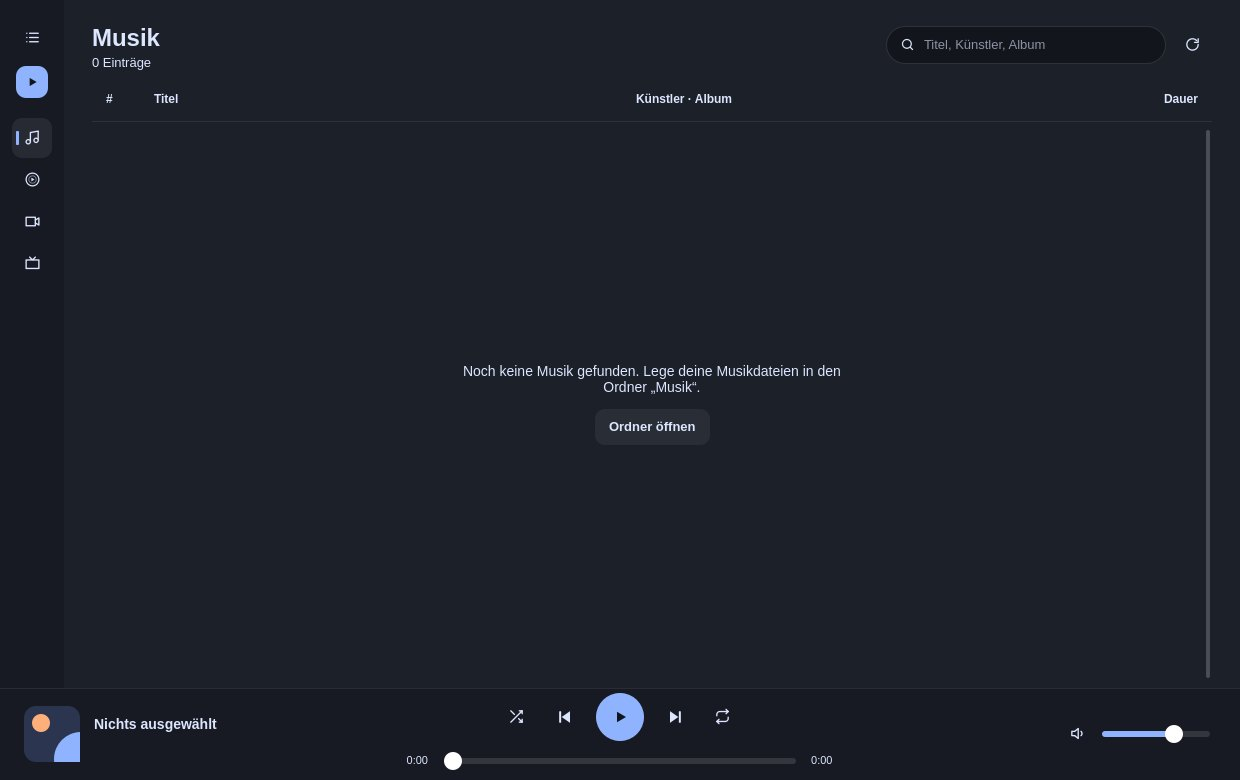
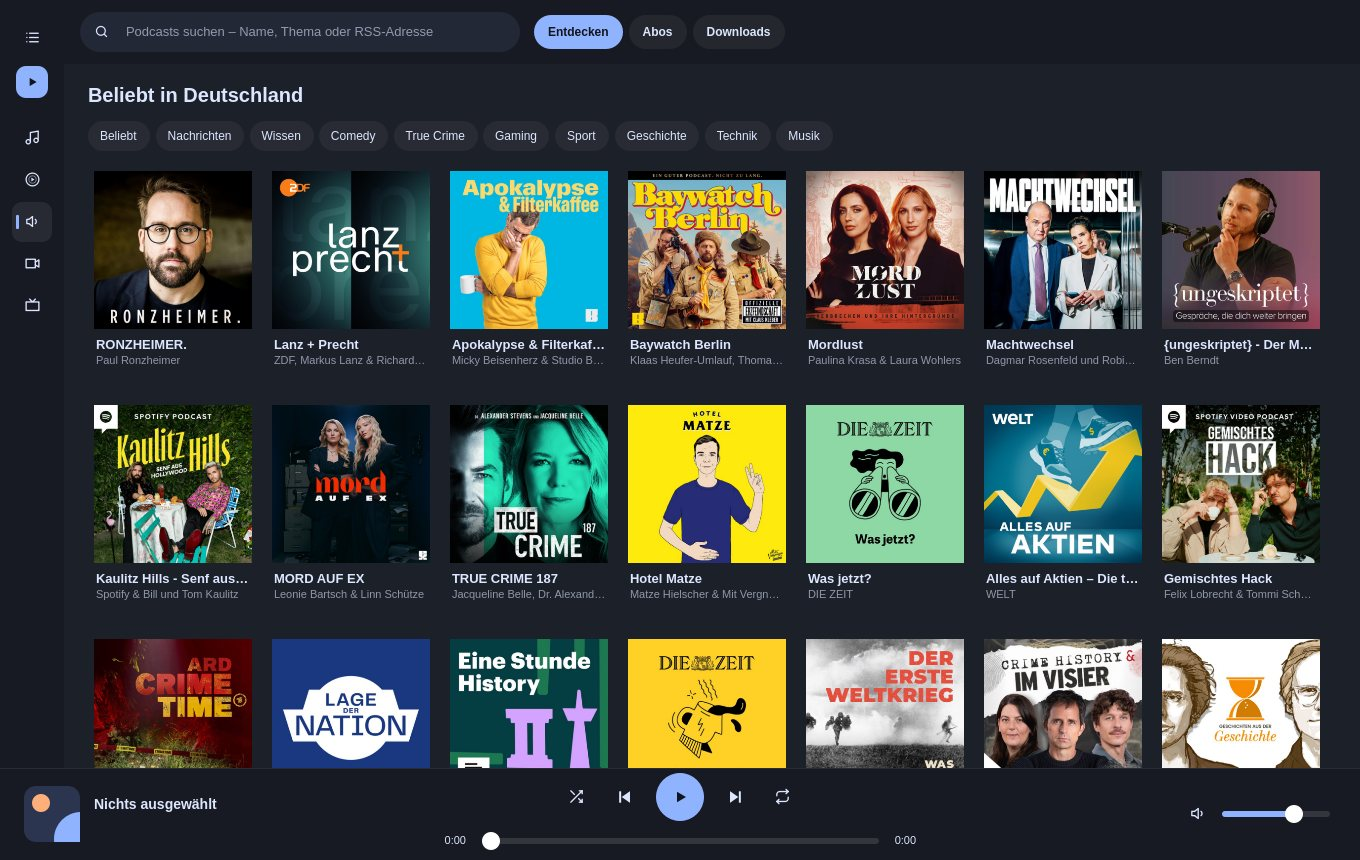
Webseite: Gibeon OS 3 „Emerald Earth“, Studio statt OBS, Shots mit Videoaufnahme, Podcasts im Player, neuer Hintergrund
Claude-Session: https://claude.ai/code/session_013GT3BRDo3e7DU5WTsmjQEC

diff --git a/index.html b/index.html
@@ -16,7 +16,7 @@
   --text:#dce6ff; --muted:rgba(220,230,255,.62); --faint:rgba(220,230,255,.4);
   --accent:#8fb3ff; --accent-text:#12151b; --flame:#ffb07a; --ok:#6fdcc0; --red:#c42b1c;
   --line:rgba(255,255,255,.08); --hover:rgba(255,255,255,.07); --subtle:rgba(255,255,255,.04);
[1 lines of base64/hex data omitted]
+  --wall:url("bilder/wall-graphit.jpg");
 }
 *{box-sizing:border-box}
 html{scroll-behavior:smooth}
@@ -451,7 +451,7 @@ html[data-design="porzellan"]{
   --text:#1c2433; --muted:rgba(28,36,51,.66); --faint:rgba(28,36,51,.45);
   --accent:#3d6fe0; --accent-text:#ffffff; --flame:#d9773a; --ok:#1f9e7f; --red:#d23c45;
   --line:rgba(28,36,51,.10); --hover:rgba(28,36,51,.06); --subtle:rgba(28,36,51,.03);
[1 lines of base64/hex data omitted]
+  --wall:url("bilder/wall-porzellan.jpg");
   color-scheme:light;
 }
 html[data-design="porzellan"] header.nav{background:rgba(244,246,250,.82)}
@@ -609,7 +609,7 @@ html,body,header.nav,.card,.tab,.btn{transition:background-color .25s,color .25s
 <!-- ============ HERO ============ -->
 <section class="hero">
   <div class="wrap">
-    <span class="eyebrow"><b>Version 2 · Vivid Venus</b> Neu: Android-Apps, Messenger und ein eigener App-Shop</span>
+    <span class="eyebrow"><b>Version 3 · Emerald Earth</b> Neu: Studio zum Streamen, Videoaufnahme und ein neues Design</span>
     <h1>Bedient sich wie Windows.<br><em>Läuft ohne Windows.</em></h1>
     <p class="lead">Gibeon OS ist ein kostenloses Betriebssystem auf Basis von Fedora. Steam, Proton und der NVIDIA-Treiber sind schon drauf. Und wenn ein Update Ärger macht, startest du einfach den vorherigen Stand.</p>
     <div class="cta">
@@ -669,8 +669,10 @@ html,body,header.nav,.card,.tab,.btn{transition:background-color .25s,color .25s
             <div class="sm-app"><span class="ic"><svg class="i"><use href="#film"/></svg></span>Cut</div>
             <div class="sm-letter">D</div>
             <div class="sm-app"><span class="ic"><svg class="i"><use href="#folder"/></svg></span>Dateien</div>
-            <div class="sm-letter">G</div>
-            <div class="sm-app hl"><span class="ic"><svg class="i"><use href="#rocket"/></svg></span>Gibeon OS Suite</div>
+            <div class="sm-letter">M</div>
+            <div class="sm-app"><span class="ic"><svg class="i"><use href="#mail"/></svg></span>Mail</div>
+            <div class="sm-letter">S</div>
+            <div class="sm-app hl"><span class="ic"><svg class="i"><use href="#rec"/></svg></span>Studio</div>
           </div>
           <div class="sm-foot"><span class="avatar">M</span>Markus<div class="p"><svg class="i"><use href="#lock"/></svg><svg class="i"><use href="#power"/></svg></div></div>
         </div>
@@ -683,7 +685,6 @@ html,body,header.nav,.card,.tab,.btn{transition:background-color .25s,color .25s
           <div class="tb-btn"><svg class="i"><use href="#term"/></svg></div>
           <div class="tb-sep"></div>
           <div class="tb-btn"><span class="tb-ai">Cl</span></div>
-          <div class="tb-btn"><span class="tb-ai">GP</span></div>
           <div class="tray">
             <svg class="i"><use href="#mic"/></svg>
             <svg class="i"><use href="#sun"/></svg>
@@ -717,7 +718,7 @@ html,body,header.nav,.card,.tab,.btn{transition:background-color .25s,color .25s
     <div class="grid">
       <div class="card"><div class="badge f"><svg class="i"><use href="#gamepad"/></svg></div><h3>Spiele laufen sofort</h3><p>Steam, Proton und GameMode sind vorinstalliert, in der NVIDIA-Ausgabe auch der Treiber. Bei Steam anmelden, Spiel installieren, losspielen.</p></div>
       <div class="card"><div class="badge g"><svg class="i"><use href="#undo"/></svg></div><h3>Updates lassen sich zurücknehmen</h3><p>Ein Update wird komplett eingespielt oder gar nicht. Läuft danach etwas nicht, wählst du beim Start den vorherigen Stand.</p></div>
-      <div class="card"><div class="badge"><svg class="i"><use href="#wave"/></svg></div><h3>KI auf dem eigenen PC</h3><p>Der KI-Helfer läuft auf deiner Grafikkarte, nicht in der Cloud. Claude und ChatGPT gibt es zusätzlich als Fenster in der Taskleiste.</p></div>
+      <div class="card"><div class="badge"><svg class="i"><use href="#wave"/></svg></div><h3>KI auf dem eigenen PC</h3><p>Der KI-Helfer läuft auf deiner Grafikkarte, nicht in der Cloud. Claude gibt es zusätzlich als Fenster in der Taskleiste.</p></div>
       <div class="card"><div class="badge f"><svg class="i"><use href="#cube"/></svg></div><h3>Aus einem Foto wird 3D</h3><p>3D Studio rechnet aus einem einzigen Bild eine Figur, die du drucken oder animieren kannst. Dafür brauchst du eine NVIDIA-Karte mit 12 GB.</p></div>
       <div class="card"><div class="badge g"><svg class="i"><use href="#server"/></svg></div><h3>Eigene Webseite per Schalter</h3><p>„Mein Server“ macht deinen PC zum Webserver fürs Heimnetz. Wer will, macht ihn auch übers Internet erreichbar.</p></div>
       <div class="card"><div class="badge"><svg class="i"><use href="#pad"/></svg></div><h3>Android-Apps</h3><p>Apps vom Handy laufen in eigenen Fenstern auf dem PC, mit oder ohne Google Play Store.</p></div>
@@ -736,13 +737,12 @@ html,body,header.nav,.card,.tab,.btn{transition:background-color .25s,color .25s
     <div class="tabgroups" role="tablist">
       <div class="tabgroup"><span class="glabel">Kreativ</span>
         <button class="tab" role="tab" aria-selected="true" data-t="3d"><svg class="i"><use href="#cube"/></svg>3D Studio</button>
-        <button class="tab" role="tab" aria-selected="false" data-t="engine"><svg class="i"><use href="#gamepad"/></svg>Engine</button>
         <button class="tab" role="tab" aria-selected="false" data-t="launcher"><svg class="i"><use href="#tv"/></svg>Game Launcher</button>
         <button class="tab" role="tab" aria-selected="false" data-t="art"><svg class="i"><use href="#brush"/></svg>Art</button>
         <button class="tab" role="tab" aria-selected="false" data-t="cut"><svg class="i"><use href="#film"/></svg>Cut</button>
         <button class="tab" role="tab" aria-selected="false" data-t="shots"><svg class="i"><use href="#scissors"/></svg>Shots</button>
         <button class="tab" role="tab" aria-selected="false" data-t="broadcast"><svg class="i"><use href="#broadcast"/></svg>Broadcast</button>
-        <button class="tab" role="tab" aria-selected="false" data-t="podcast"><svg class="i"><use href="#podcast"/></svg>Podcast</button>
+        <button class="tab" role="tab" aria-selected="false" data-t="studio"><svg class="i"><use href="#rec"/></svg>Studio</button>
       </div>
       <div class="tabgroup"><span class="glabel">Büro &amp; Internet</span>
         <button class="tab" role="tab" aria-selected="false" data-t="mail"><svg class="i"><use href="#mail"/></svg>Mail</button>
@@ -800,22 +800,6 @@ html,body,header.nav,.card,.tab,.btn{transition:background-color .25s,color .25s
         </div>
       </div>
     </div>
-    <div class="panel" data-p="engine">
-      <div class="appshow">
-        <figure class="shot"><img src="bilder/engine-charakter.jpg" data-hell="bilder/hell-engine-charakter.jpg" alt="Bildschirmfoto der Engine mit Charakter-Editor" loading="lazy"></figure>
-        <div class="desc">
-          <span class="gtag">Kreativ</span>
-          <h3>Engine</h3>
-          <p>Ein Baukasten für 2,5D-Jump’n’Runs, ganz ohne Programmieren.</p>
-          <ul>
-            <li><svg class="i"><use href="#check"/></svg>Level aus Blöcken, Münzen, Gegnern und Figuren mit Dialogen zusammenklicken.</li>
-            <li><svg class="i"><use href="#check"/></svg>Eigene 3D-Figur laden und per Text beschreiben, wie sie laufen soll.</li>
-            <li><svg class="i"><use href="#check"/></svg>Das fertige Spiel für Linux und Windows exportieren.</li>
-          </ul>
-          <div class="know"><b>Gut zu wissen:</b> Nicht vorinstalliert. Du holst sie dir über Software → „Eigene Apps“.</div>
-        </div>
-      </div>
-    </div>
     <div class="panel" data-p="art">
       <div class="appshow">
         <figure class="shot"><img src="bilder/art.jpg" data-hell="bilder/hell-art.jpg" alt="Bildschirmfoto von Art" loading="lazy"></figure>
@@ -853,11 +837,12 @@ html,body,header.nav,.card,.tab,.btn{transition:background-color .25s,color .25s
         <div class="desc">
           <span class="gtag">Kreativ</span>
           <h3>Shots</h3>
-          <p>Bildschirmfotos wie mit dem Snipping Tool: Druck-Taste oder Win + Umschalt + S.</p>
+          <p>Bildschirmfotos wie mit dem Snipping Tool: Druck-Taste oder Win + Umschalt + S. Und jetzt auch Videos vom Desktop.</p>
           <ul>
             <li><svg class="i"><use href="#check"/></svg>Bereich, Fenster, ganzer Bildschirm oder freihand.</li>
             <li><svg class="i"><use href="#check"/></svg>Pfeile, Markierungen und Text direkt einzeichnen.</li>
             <li><svg class="i"><use href="#check"/></svg>Mit Selbstauslöser, falls ein Menü mit aufs Bild soll.</li>
+            <li><svg class="i"><use href="#check"/></svg>„Aufnehmen“ filmt den Bildschirm samt Ton, „Stopp“ speichert das Video.</li>
           </ul>
         </div>
       </div>
@@ -868,7 +853,7 @@ html,body,header.nav,.card,.tab,.btn{transition:background-color .25s,color .25s
         <div class="desc">
           <span class="gtag">Kreativ</span>
           <h3>Broadcast</h3>
-          <p>Filtert Geräusche aus dem Mikrofon und tauscht den Hintergrund der Webcam aus. Das klappt in Discord, Teams, OBS und jedem anderen Programm.</p>
+          <p>Filtert Geräusche aus dem Mikrofon und tauscht den Hintergrund der Webcam aus. Das klappt in Discord, Teams, Studio und jedem anderen Programm.</p>
           <ul>
             <li><svg class="i"><use href="#check"/></svg>Tastatur und Lüfter hört keiner mehr.</li>
             <li><svg class="i"><use href="#check"/></svg>Hintergrund unscharf, eigenes Bild oder Greenscreen.</li>
@@ -878,17 +863,21 @@ html,body,header.nav,.card,.tab,.btn{transition:background-color .25s,color .25s
         </div>
       </div>
     </div>
-    <div class="panel" data-p="podcast">
+    <div class="panel" data-p="studio">
       <div class="appshow">
-        <figure class="shot"><img src="bilder/podcast.jpg" alt="Bildschirmfoto von Podcast" loading="lazy"></figure>
+        <figure class="shot"><img src="bilder/studio.jpg" data-hell="bilder/hell-studio.jpg" alt="Bildschirmfoto von Studio mit Vorschau, Quellen, Chat und Tonmischer" loading="lazy"><figcaption>Mit Testbild statt Kamera</figcaption></figure>
         <div class="desc">
           <span class="gtag">Kreativ</span>
-          <h3>Podcast</h3>
-          <p>Podcasts suchen, abonnieren und herunterladen. Ein Konto brauchst du nicht.</p>
+          <h3>Studio</h3>
+          <p>Aufnehmen und live streamen, gebaut für Gibeon OS. Ersetzt OBS und ist deutlich einfacher.</p>
           <ul>
-            <li><svg class="i"><use href="#check"/></svg>Durchsucht einen großen öffentlichen Katalog, eigene RSS-Links gehen auch.</li>
-            <li><svg class="i"><use href="#check"/></svg>Folgen offline hören, auch schneller oder langsamer.</li>
+            <li><svg class="i"><use href="#check"/></svg>Bildschirm, Kamera, Capture-Karte, Bilder und Browserquellen frei anordnen.</li>
+            <li><svg class="i"><use href="#check"/></svg>Szenen merken sich alles, auch die Capture-Karte und den Ton.</li>
+            <li><svg class="i"><use href="#check"/></svg>Gleichzeitig zu Twitch, YouTube, Kick, TikTok oder einem eigenen Server.</li>
+            <li><svg class="i"><use href="#check"/></svg>Chat und Umfragen direkt in der App, die Umfrage erscheint im Bild.</li>
+            <li><svg class="i"><use href="#check"/></svg>Kodiert auf der Grafikkarte, Aufnahmen auf Wunsch danach in 4K.</li>
           </ul>
+          <div class="know"><b>Gut zu wissen:</b> Ein Elgato Stream Deck lässt sich einstecken und für Studio belegen.</div>
         </div>
       </div>
     </div>
@@ -997,14 +986,15 @@ html,body,header.nav,.card,.tab,.btn{transition:background-color .25s,color .25s
     </div>
     <div class="panel" data-p="player">
       <div class="appshow">
-        <figure class="shot"><img src="bilder/player.jpg" alt="Bildschirmfoto von Player" loading="lazy"></figure>
+        <figure class="shot"><img src="bilder/player.jpg" alt="Bildschirmfoto vom Player mit Podcast-Kacheln" loading="lazy"></figure>
         <div class="desc">
           <span class="gtag">Medien</span>
           <h3>Player</h3>
-          <p>Musik, Videos und Fernsehen in einer App.</p>
+          <p>Musik, Videos, Podcasts und Fernsehen in einer App.</p>
           <ul>
             <li><svg class="i"><use href="#check"/></svg>Spielt deine Musik und Videos aus den eigenen Ordnern.</li>
-            <li><svg class="i"><use href="#check"/></svg>YouTube Music über die offizielle Webseite, mit deinem Konto.</li>
+            <li><svg class="i"><use href="#check"/></svg>YouTube Music mit eigenen Kacheln, Suche und Favoriten – über die offizielle Seite, mit deinem Konto.</li>
+            <li><svg class="i"><use href="#check"/></svg>Podcasts als Kacheln: suchen, abonnieren und offline hören.</li>
             <li><svg class="i"><use href="#check"/></svg>Fernsehen per IPTV mit deutscher Senderliste.</li>
           </ul>
         </div>
@@ -1201,7 +1191,6 @@ html,body,header.nav,.card,.tab,.btn{transition:background-color .25s,color .25s
           <div class="tb-btn"><svg class="i"><use href="#term"/></svg></div>
           <div class="tb-sep"></div>
           <div class="tb-btn"><span class="tb-ai">Cl</span></div>
-          <div class="tb-btn"><span class="tb-ai">GP</span></div>
           <div class="tray"><svg class="i"><use href="#mic"/></svg><svg class="i"><use href="#sun"/></svg><svg class="i"><use href="#printer"/></svg><svg class="i"><use href="#wifi"/></svg><div class="clock" id="tclock">15:42<br>08.11.2026</div></div>
         </div>
       </div>
@@ -1325,10 +1314,6 @@ html,body,header.nav,.card,.tab,.btn{transition:background-color .25s,color .25s
         <p>Zeigt das Bild einer Konsole oder Kamera, die per HDMI-Grabber angeschlossen ist.</p>
         <ul><li>Bild und Ton werden automatisch zugeordnet</li><li>Mit Aufnahme und Bildschirmfoto</li></ul>
         <span class="based">Selbst entwickelt</span></div>
-      <div class="app2"><div class="top"><span class="ai"><svg class="i"><use href="#rec"/></svg></span><div><b>OBS Studio</b><span class="typ">Streaming &amp; Aufnahme</span></div></div>
-        <p>Das bekannte OBS Studio, vorinstalliert und im Design von Gibeon OS.</p>
-        <ul><li>Für Aufnahmen und Livestreams</li></ul>
-        <span class="based">Basiert auf OBS Studio</span></div>
       <div class="app2"><div class="top"><span class="ai"><svg class="i"><use href="#cube"/></svg></span><div><b>3D-Ansicht</b><span class="typ">GLB &amp; glTF</span></div></div>
         <p>Öffnet 3D-Modelle per Doppelklick, so wie ein Bildbetrachter Fotos öffnet.</p>
         <ul><li>Drehen, zoomen und durch den Ordner blättern</li></ul>
@@ -1357,7 +1342,7 @@ html,body,header.nav,.card,.tab,.btn{transition:background-color .25s,color .25s
       <div class="cr">GameMode<span>Leistung beim Spielen</span></div>
       <div class="cr">Open-Meteo<span>Wetter-Widget</span></div>
       <div class="cr">llama.cpp &amp; Gemma 4<span>KI-Helfer</span></div>
-      <div class="cr">OBS Studio<span>Streaming &amp; Aufnahme</span></div>
+      <div class="cr">GStreamer<span>Studio, Shots</span></div>
       <div class="cr">Robust Video Matting & ONNX Runtime<span>Virtueller Greenscreen</span></div>
       <div class="cr">Flatpak & Flathub<span>Software</span></div>
       <div class="cr">TRELLIS &amp; TRELLIS.2 (Microsoft)<span>3D Studio</span></div>
@@ -1397,7 +1382,6 @@ html,body,header.nav,.card,.tab,.btn{transition:background-color .25s,color .25s
           <li><b>KI-Helfer</b><span>läuft überall; ab 6 GB Grafikspeicher das bessere Modell, ab 10 GB das beste (2,8–7 GB Download)</span></li>
           <li><b>3D Studio</b><span>NVIDIA mit mindestens 12 GB Grafikspeicher (z. B. RTX 3060 12 GB); TRELLIS ≈ 32 GB, TRELLIS.2 ≈ 50 GB freier Speicher</span></li>
           <li><b>Broadcast</b><span>Rauschentfernung und Greenscreen auf jedem PC; KI-Upscaling nur mit NVIDIA</span></li>
-          <li><b>Engine-Animation</b><span>Figuren per KI animieren: NVIDIA empfohlen</span></li>
         </ul></div>
     </div>
   </div>
@@ -1409,7 +1393,7 @@ html,body,header.nav,.card,.tab,.btn{transition:background-color .25s,color .25s
     <div class="dl">
       <div class="kicker">Download</div>
       <h2 style="margin-bottom:10px">Herunterladen</h2>
-      <p class="sub" style="margin-bottom:6px"><b style="color:var(--accent)">Gibeon OS 2 „Vivid Venus“</b>, Installations-ISO vom 19.11.2026.</p>
+      <p class="sub" style="margin-bottom:6px"><b style="color:var(--accent)">Gibeon OS 3 „Emerald Earth“</b>. Das Installations-ISO holt sich beim Installieren automatisch den neuesten freigegebenen Stand.</p>
       <p class="sub">Nimm die Ausgabe, die zu deiner Grafikkarte passt. Schreib die ISO auf einen USB-Stick und starte den PC davon. Das System selbst wird bei der Installation aus dem Internet geladen, du bekommst also den neuesten Stand.</p>
       <div class="dlgrid">
         <div class="dlc"><h3>Für NVIDIA</h3><p>Für Rechner mit GeForce-Grafikkarte. Der Treiber ist schon drin.</p><a class="btn primary" href="https://github.com/markuspinkall-ux/creative-os/releases/download/installer/creative-os-nvidia.iso"><svg class="i"><use href="#down"/></svg>ISO für NVIDIA</a></div>
